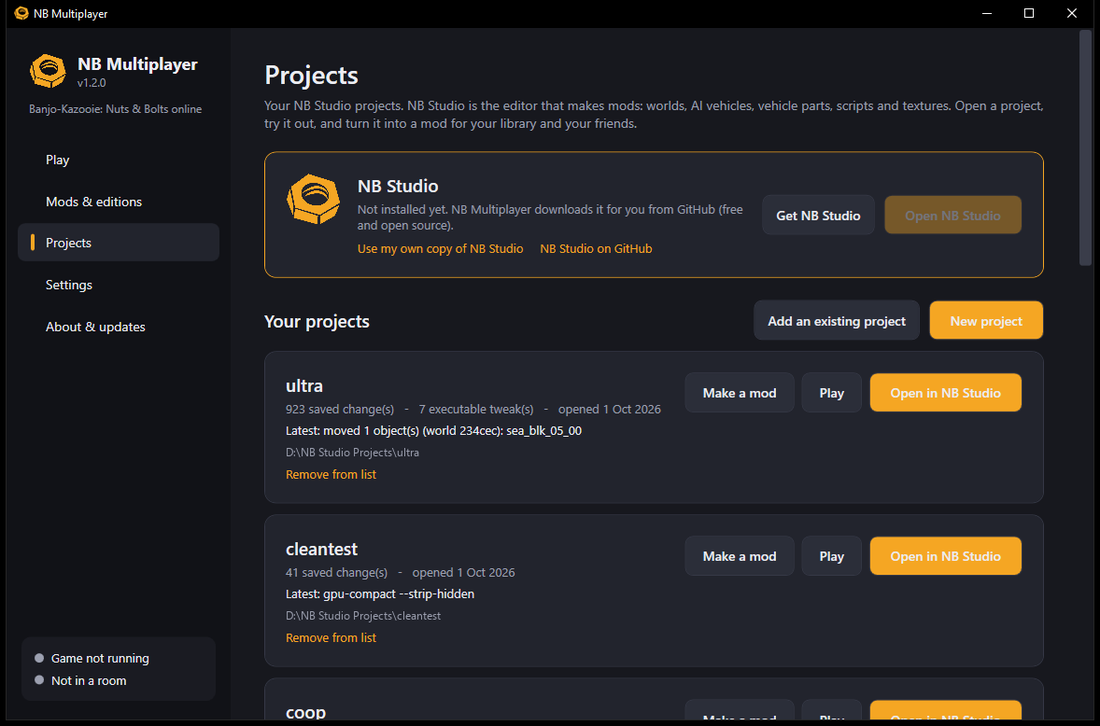
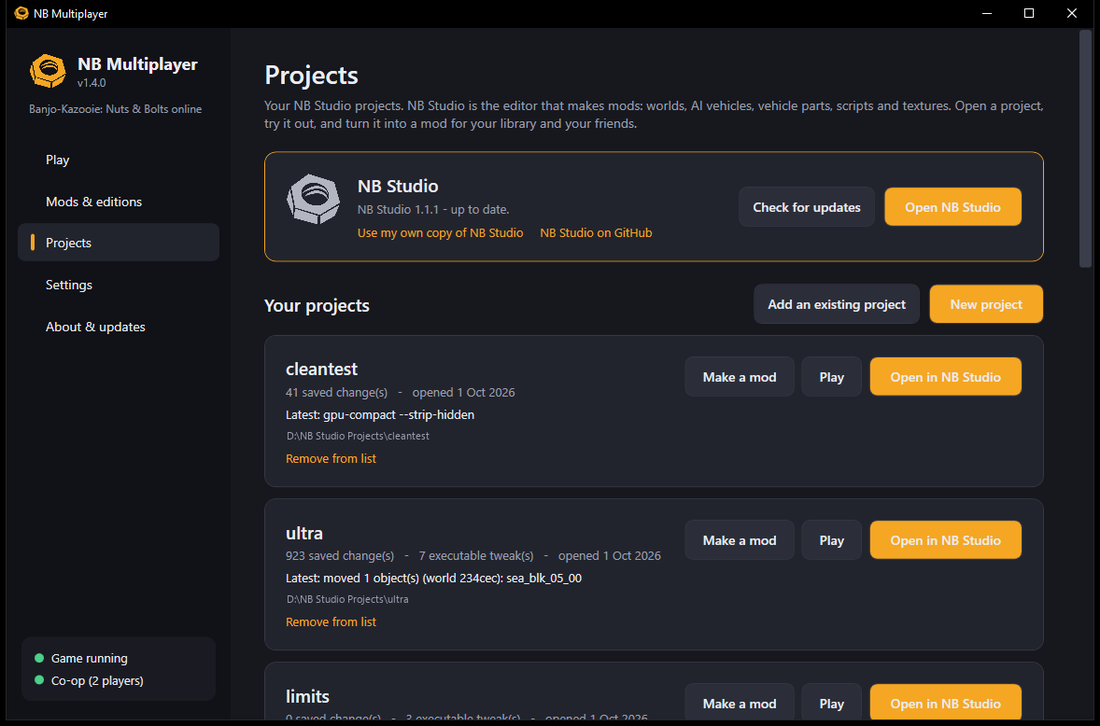
README: What it does, new screenshots of 1.4 (co-op fights, ULTRA parts, mods, projects, settings)

diff --git a/README.md b/README.md
@@ -3,10 +3,10 @@
 </p>
 
 <p align="center">
-  <b>Play <i>Banjo-Kazooie: Nuts &amp; Bolts</i> online with your friends again.</b><br>
-  The game's own Xbox LIVE multiplayer (parties, races, sports, team games) running in an emulator, connected
-  through Steam: no port forwarding, no accounts, no servers to rent. Plus a mod library with tick-box tweaks,
-  Showdown Town co-op, and your NB Studio projects in one place.
+  <b>Play <i>Banjo-Kazooie: Nuts &amp; Bolts</i> with your friends again: online, in co-op, and with mods.</b><br>
+  One app that runs the game, connects you through Steam (no port forwarding, no accounts, no servers to rent) and
+  manages your mods: the game's own Xbox LIVE races and sports, single-player Showdown Town together, a mod library
+  with tick-box tweaks, and your NB Studio projects.
 </p>
 
 <p align="center">
@@ -22,6 +22,7 @@
 
 ## Contents
 
+- [What it does](#what-it-does)
 - [What you need](#what-you-need)
 - [Install](#install)
 - [First start](#first-start)
@@ -38,6 +39,19 @@
 - [Credits and legal](#credits-and-legal)
 
 ---
+
+## What it does
+
+| | |
+|---|---|
+| 🏁 **Online matches** | The game's own Xbox LIVE parties, races, sports and team games, up to 4 players. Friends land in the host's party automatically. |
+| 🏘 **Showdown Town co-op** *(preview)* | Play the single-player game together: see each other in town, build and change vehicles at the same time, and fight: weapon hits break parts off the other player's vehicle. |
+| 🔧 **Mods & editions** | A mod library with categories (maps, vehicle parts, gameplay, visuals, sounds, tweaks, co-op) and tick-box tweaks such as *Unlimited parts* or *All parts unlocked*. Tick mods, build an edition, play it alone or host it. Friends get missing mods from the host when they join. |
+| ⚙ **ULTRA Parts** | A bundled vehicle-parts mod: ULTRA Engine, Fuel, Ammo and Wheels, Plane Hull, Tiki and Fusion Reactor in Mumbo's Motors. |
+| 🗂 **Projects** | Your [NB Studio](https://github.com/weighta/NB-Studio-Banjo-Kazooie-Nuts-and-Bolts-World-Editor-) projects: NB Multiplayer installs and updates the editor, opens projects in it and turns them into mods. |
+| 💾 **All-unlocked save** | Skip the intro: start every game with everything unlocked (your own save is kept aside). |
+| 🌐 **Steam connection** | Rooms through Steam's relay network: share a room code, nothing to configure. Home network and direct internet work too. |
+| ⬆ **Updates** | NB Multiplayer updates itself from this repository's releases (it asks first). |
 
 ## What you need
 
@@ -56,7 +70,7 @@ Up to 4 players per room.
 
 **2.** Right-click the zip → **Properties** → tick **Unblock** → **OK**, then extract it anywhere
 (for example `Documents\NB-Multiplayer`). Keep the folder together: `NBMultiplayer.exe`, `steam_api64.dll` and the
-`xenia` folder belong together.
+`xenia`, `patches` and `saves` folders belong together.
 
 **3.** Run **`NBMultiplayer.exe`**. If Windows says *"Windows protected your PC"*, click **More info → Run anyway**
 (the app is not code-signed). It offers to create a desktop shortcut.
@@ -70,13 +84,16 @@ The **Play** page tells you what's missing. Open **Settings**:
 1. **Player name**: letters and digits, up to 15 characters. It becomes your in-game profile name.
 2. **Game folder**: click **Browse...** and choose the folder that contains `default.xex` and `Bundle`.
    NB Multiplayer only reads it; it never changes your game files.
+3. *(Optional)* **Start every game with the all-unlocked save**: no intro, every world, Act, vehicle and part unlocked
+   (see [Showdown Town co-op](#showdown-town-co-op-preview)).
 
 Your profile and saves are stored in `%LOCALAPPDATA%\NB-Multiplayer` (Settings → *Open data folder*), separate from any
 other Xenia you use.
 
 ## Hosting a room
 
-One player hosts; everyone else joins. On the **Play** page:
+One player hosts; everyone else joins. On the **Play** page, first pick the **edition** to play (*Vanilla* or one you
+built under [Mods & editions](#mods-editions-and-tweaks)); **Play solo** plays it on your own without a room.
 
 <p align="center"><img src="docs/images/01-app-play.png" alt="Play page" width="85%"></p>
 
@@ -104,9 +121,10 @@ bottom lists everyone who connects.
 
 <p align="center"><img src="docs/images/04-app-joining.png" alt="Joining" width="85%"></p>
 
-**2.** NB Multiplayer connects (through Steam for `NBS-` codes), checks that your game files match the host's, switches
-to the host's [edition](#editions-and-mods) if you have it, and starts the game. If something differs it tells you
-exactly what (for example *"vehicle parts library: 2 files"*).
+**2.** NB Multiplayer connects (through Steam for `NBS-` codes), switches to the host's
+[edition](#mods-editions-and-tweaks) (building it, and getting any mod you lack from the host, when you don't have it
+yet), checks that your game files match the host's and starts the game. If something differs it tells you exactly what
+(for example *"vehicle parts library: 2 files"*).
 
 ## In the game
 
@@ -158,11 +176,23 @@ each other, town vehicles break apart, and *Change Vehicle* / *Build Vehicle* wo
 <p align="center"><img src="docs/images/16-coop-town.png" alt="Co-op in Showdown Town" width="100%"></p>
 <p align="center"><i>The host's game: their own trolley (left) and the friend's trolley (right), moving wherever the friend drives in their own game.</i></p>
 
+<p align="center">
+  <img src="docs/images/22-coop-laser-hit.png" alt="Laser hit on the other player" width="49%">
+  <img src="docs/images/23-coop-parts-off.png" alt="Parts broken off" width="49%">
+</p>
+<p align="center"><i>Fighting: a laser hit on the friend's trolley (left) is applied in the friend's own game, where parts of their vehicle break off (right).</i></p>
+
+<p align="center">
+  <img src="docs/images/21-coop-weapons.png" alt="Every weapon in Mumbo's Motors" width="49%">
+  <img src="docs/images/20-coop-ultra-parts.png" alt="ULTRA engine in Mumbo's Motors" width="49%">
+</p>
+<p align="center"><i>Mumbo's Motors in the co-op edition: every part unlocked, including every weapon (left), and the ULTRA parts (right).</i></p>
+
 **1.** **Mods & editions** → **Add co-op edition** (or **Add co-op + ULTRA Parts**). Friends who join get the same edition
 automatically. (If you have the co-op edition of an older NB Multiplayer, the button says **Update co-op edition**.)
 
 **2.** Host: on the **Play** page choose the edition **Showdown Town Co-op**, then **Start hosting** (Steam recommended).
-Friends join with the room code as usual. The room panel lists everyone who is synced:
+Friends join with the room code as usual. The room panel lists everyone who is synced and how many players each game shows:
 
 <p align="center"><img src="docs/images/17-coop-room.png" alt="Co-op room" width="85%"></p>
 
@@ -183,6 +213,9 @@ shown as a badge and used as a filter. An **edition** is your game with the mods
 mods, press **Build an edition**, then host it or play it alone with **Play solo** on the Play page.
 
 <p align="center"><img src="docs/images/13-app-editions.png" alt="Mods and editions" width="85%"></p>
+
+<p align="center"><img src="docs/images/19-app-mods.png" alt="Mod library" width="85%"></p>
+<p align="center"><i>The mod library: category filters, badges, built-in tweaks and the build bar for the ticked mods.</i></p>
 
 * **Built-in tweaks**: the game-executable mods researched for NB Studio are tick boxes: *Unlimited parts (2000),
   Bigger world edge, No world-edge reset, Bigger garage, Longer draw distance, Change vehicles in town, Breakable town
@@ -231,6 +264,9 @@ profile, saves and editions.
 | Friend stays in their own party | Make sure the host is already in the Xbox LIVE lobby; the friend can back out to the house menu and open Xbox LIVE again. |
 | PlayStation controller acts twice / as two players | DS4Windows or Steam's PlayStation support is also active: close them, or enable *Hide DS4 Controller* in DS4Windows. |
 | A player drops back to their own party while a match loads | Rare; start the match again. |
+| Co-op: I can't see my friend in town | Both of you must play the co-op edition (the room panel shows *Co-op (2 players)*) and be in Showdown Town; players on foot are not shown yet, so get into a vehicle. |
+| Co-op: pressing X warps instead of firing | You are on a warp pad or at a world door: drive off it first. |
+| "These mods cannot be combined yet" | The ticked mods change the same game files (for example two Showdown Town overhauls). Tweaks always combine. |
 | Something else | Send `%LOCALAPPDATA%\NB-Multiplayer\data\xenia.log` and `steam.log` from both PCs with an [issue](../../issues). |
 
 ## How it works
@@ -257,6 +293,12 @@ profile, saves and editions.
   with a fingerprint of the host's game files (SHA-256 of `default.xex` and every bundle) so mismatches are caught early.
 * **Party joining** is automatic: the NB Xenia build befriends everyone in the room and accepts the host's invite as
   soon as you open Xbox LIVE.
+* **Showdown Town co-op** runs each player's own single-player game. NB Multiplayer reads each player's vehicle 30 times
+  a second and drives a stand-in vehicle (a "puppet" trolley of the co-op edition) to the same place in the other
+  games. A small executable mod logs weapon hits on puppets instead of applying them; NB Multiplayer sends them to that
+  player's game, where the game's own damage code applies them (so parts break off naturally).
+* **Mods** are `.nbpatch` files: differences against the original game files, no game data. An edition applies a list
+  of mods (its recipe) to a linked copy of your game; executable mods of several mods are merged into one `default.xex`.
 
 ## Building from source
 
